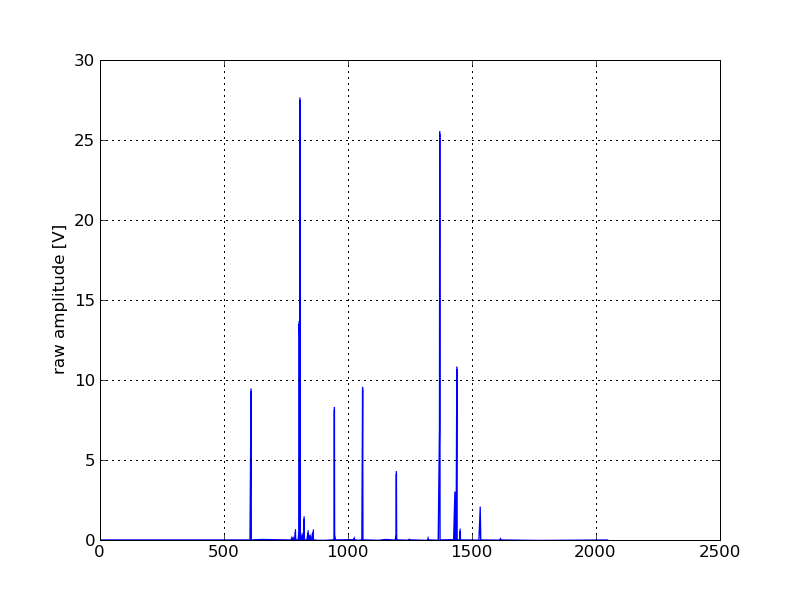
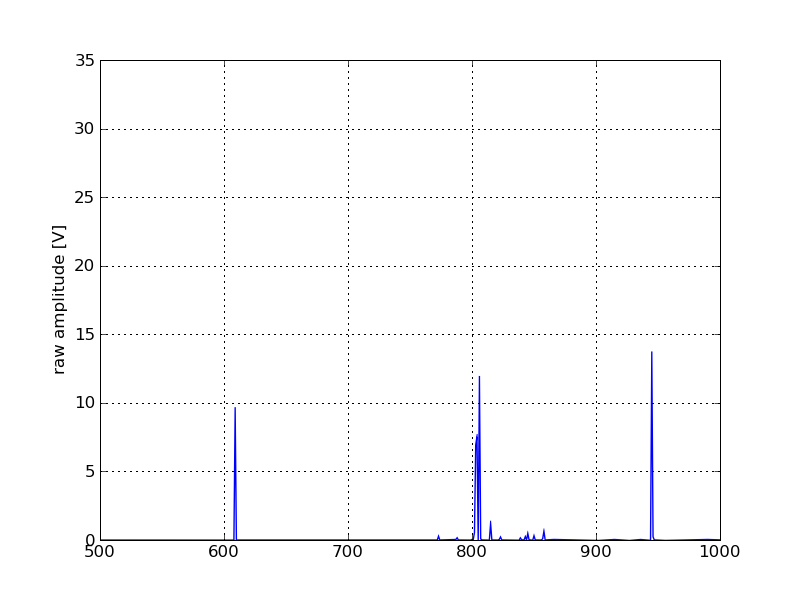
Added a help page. Added help tips in various places. Fixed a plot settings bug.

diff --git a/CAPO_online/CAPO_dashboard/templates/corr_monitor/help.html b/CAPO_online/CAPO_dashboard/templates/corr_monitor/help.html
@@ -1,0 +1,41 @@
+{% extends "corr_monitor/base_site.html" %}
+
+{% block content %}
+<h3>Basic Usage</h3>
+<p>Visibilities or baseline listings are extracted from the database written by 
+the correlator recieve script.  Once oCAPO is pointed at the correct database its 
+internal visibility index can be updated by clicking <b>Update</b> near the top of the 
+page.  This update only needs to be performed when the database is changed or
+the correlator is reconfigured.</p>
+<p>
+The visibility listing is displayed in a grid on the <b>Home</b> view.  The listing
+may be filtered by antenna number, polerization etc using the <b>Filters</b> to the
+right of the visibility table. Create or modify filters as necessary. Only one
+is applied at a time. Refresh the page (ctrl-R) to apply the changes to the visibility
+listing.
+</p>
+<p>
+Click on a visibility in the table to see a plot of the correlator output. Change 
+the properties of the plot using the table at the right. This function hits the 
+database every time it is generated. To monitor a baseline, simply refresh the page.
+</p>
+<p>
+Add a correlator database by going into the <b>Admin</b> interface and navigating
+to the <b>Corr DBs</b> listing and clicking <b>add corr db</b>.
+</p>
+<h3> Feature Tracking </h3>
+Now v1.0:
+<ul>
+<li>Visibility filtering.
+<li>Plotting (individual baseline)
+<li>Easy scaling of plots
+<li>Switching between databases.
+</ul>
+For next version v1.1:
+<ul>
+<li>Data quality monitoring.
+<li>Multiple plots at the same time
+<li>User selectable plot function (abs,phase,unwrapped phase, etc)
+<li><b>Open for suggestions!</b>
+</ul>
+{% endblock %}

diff --git a/CAPO_online/CAPO_dashboard/templates/corr_monitor/index.html b/CAPO_online/CAPO_dashboard/templates/corr_monitor/index.html
@@ -14,6 +14,8 @@
 {% endblock %}
 {% block breadcrumbs %}
 {{block.super}}&nbsp;&nbsp;<a href="/admin/corr_monitor/">Admin</a>
+&nbsp;&nbsp;<a href="/corr_monitor/update/">Update</a>
+&nbsp;&nbsp;<a href="/corr_monitor/help/">Help</a>
 {% endblock %}
 {% block extrastyle %}
 <link rel="stylesheet" type="text/css" href="/corr_monitor/media/css/corr.css">

diff --git a/CAPO_online/CAPO_dashboard/templates/corr_monitor/filters.html b/CAPO_online/CAPO_dashboard/templates/corr_monitor/filters.html
@@ -39,4 +39,11 @@
 {% else %}
 <p>No filters were found</p>
 {% endif %}
-<a href="/corr_monitor/filters/add/">New Filter</a>
+<div class="breadcrumbs"><a href="/corr_monitor/filters/add/">New Filter</a>
+<br>Tips:
+<ul>
+<li>
+To apply a filter, click "apply" and manually refresh your browser.
+</li>
+
+</ul></div> 

diff --git a/CAPO_online/CAPO_dashboard/urls.py b/CAPO_online/CAPO_dashboard/urls.py
@@ -27,6 +27,7 @@ urlpatterns = patterns('',
     (r'^corr_monitor/filters/(?P<f_id>\d+)/toggle/$','CAPO_dashboard.corr_monitor.views.filter_toggle'),
     (r'^corr_monitor/filters/(?P<f_id>\d+)/update/$','CAPO_dashboard.corr_monitor.views.filter_detail'),
     (r'^corr_monitor/filters/save/$','CAPO_dashboard.corr_monitor.views.filter_detail'),
+    (r'^corr_monitor/help/$','CAPO_dashboard.corr_monitor.views.help'),
     (r'^corr_monitor/filters/add/$','CAPO_dashboard.corr_monitor.views.filter_detail') #TODO: Possibly rename select to filters/modify.html?
     #(r'^corr_monitor/corr.css',include('CAPO_dashboard.corr_monitor.corr.css'))
 )

diff --git a/CAPO_online/CAPO_dashboard/corr_monitor/views.py b/CAPO_online/CAPO_dashboard/corr_monitor/views.py
@@ -123,7 +123,8 @@ def update_settings(request):
     return render_to_response('corr_monitor/setting_detail.html',
        {'form':form})
     
-    
+def help(request):
+    return render_to_response('corr_monitor/help.html')
         
 def filter_toggle(request,f_id):
     """
@@ -291,7 +292,7 @@ def adjust_plot(vis):
     if not pset.xmin is None:
         pl.xlim(xmin=float(pset.xmin))
     if not pset.xmax is None:
-        pl.xmax(xmax=float(pset.xmax))
+        pl.xlim(xmax=float(pset.xmax))
     
         #pl.title(str(pset.ymax))
 
